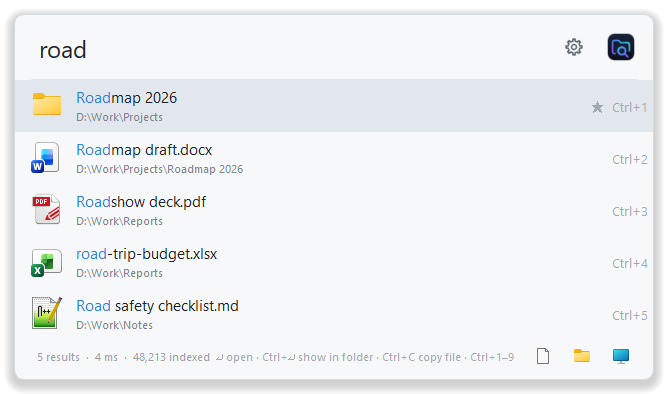
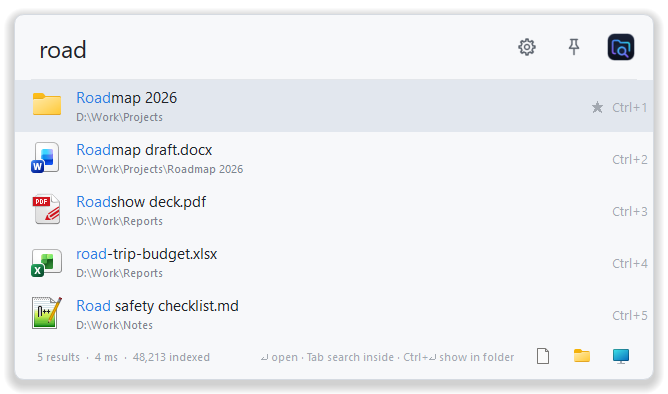
Pin the launcher bar open while opening results
- Pin button between settings and logo, also Ctrl+P
- Opening, revealing and commands leave a pinned bar visible; auto-hide pauses
- Shorter folder hint so Tab search inside fits the footer

Changed region(s): [[0.3293, 0.8832, 0.7784, 0.9137], [0.8383, 0.0914, 0.8683, 0.1523], [0.7784, 0.0914, 0.8084, 0.1523]]

diff --git a/winlauncher/ui/window.py b/winlauncher/ui/window.py
@@ -86,6 +86,7 @@ COMPACT_WIDTH = 640
 EXPANDED_WIDTH = 900
 EXPLORER_WIDTH = 396
 SETTINGS_ICON_SIZE = 20  # With its padding as tall as the logo button beside it.
+PIN_TOOLTIP = "Keep open after opening results (Ctrl+P)"
 EXPANDED_ROWS = 14
 SHADOW_MARGIN = 14
 SHADOW_OFFSET = 4
@@ -352,7 +353,7 @@ def _shortcut_hint(
     if explorer:
         return "↵ open · ↑↓ select in Explorer"
     if row.file_hit.item.kind == ItemKind.FOLDER and not row.missing:
-        return "↵ open · Tab search inside · Ctrl+↵ show in folder · Ctrl+1–9"
+        return "↵ open · Tab search inside · Ctrl+↵ show in folder"
     return "↵ open · Ctrl+↵ show in folder · Ctrl+C copy file · Ctrl+1–9"
 
 
@@ -529,6 +530,8 @@ class LauncherWindow(QWidget):
         self.auto_hide.timeout.connect(self._hide_if_unused)
         self.auto_hide_enabled = False
         self.auto_hide_ms = 0
+        # Pinned, results open without closing the bar; see `set_pinned`.
+        self.pinned = False
         self.menu_commands: tuple[MenuCommand, ...] = ()
         self._command_icons: dict[MenuCommand, QIcon] = {}  # Loaded when first shown.
         self.foreground_watcher = None
@@ -612,14 +615,24 @@ class LauncherWindow(QWidget):
         self.settings_button.setToolTip("Settings (Ctrl+,)")
         self.settings_button.setAccessibleName("Settings")
         self.settings_button.clicked.connect(self.settings_requested)
+        self.pin_button = QToolButton()
+        self.pin_button.setObjectName("pinButton")
+        self.pin_button.setCheckable(True)
+        self.pin_button.setIconSize(QSize(SETTINGS_ICON_SIZE, SETTINGS_ICON_SIZE))
+        self.pin_button.setToolTip(PIN_TOOLTIP)
+        self.pin_button.setAccessibleName("Keep open")
+        self.pin_button.toggled.connect(self.set_pinned)
         self._use_theme_icons()
         theme().changed.connect(self._theme_changed)
         row.addWidget(self.settings_button)
+        row.addWidget(self.pin_button)
         row.addWidget(self.menu_button)  # The logo stays the bar's right edge.
         return row
 
     def _use_theme_icons(self) -> None:
         self.settings_button.setIcon(line_icon("gear", colors().muted))
+        pin_color = colors().scope_text if self.pinned else colors().muted
+        self.pin_button.setIcon(line_icon("pin", pin_color))
 
     def _theme_changed(self) -> None:
         """Results paint with the active colors; icons keep the colors they were made with."""
@@ -717,6 +730,7 @@ class LauncherWindow(QWidget):
             ("Ctrl+Enter", self.reveal_selected),  # Keypad Enter.
             ("Ctrl+Shift+C", self.copy_target),
             ("Ctrl+D", self.favorite_selected),
+            ("Ctrl+P", self.pin_button.toggle),
             ("Ctrl+,", self.settings_requested),
             ("Shift+F10", self.keyboard_context_menu),
         ):
@@ -1210,7 +1224,7 @@ class LauncherWindow(QWidget):
         if self.explorer_mode:
             # On the next event loop pass, once the new foreground window is known.
             self.auto_hide.start(0)
-        elif self.auto_hide_enabled:
+        elif self.auto_hide_enabled and not self.pinned:
             self.auto_hide.start(self.auto_hide_ms)
 
     def _hide_if_unused(self) -> None:
@@ -1274,6 +1288,7 @@ class LauncherWindow(QWidget):
         self.menu_button.setIconSize(QSize(16, 16) if enabled else QSize(28, 28))
         # The Explorer bar stays narrow; its menu still offers the settings.
         self.settings_button.setVisible(not enabled)
+        self.pin_button.setVisible(not enabled)
         self._show_scope(scope)
 
     def _place_on_cursor_screen(self) -> None:
@@ -1379,6 +1394,25 @@ class LauncherWindow(QWidget):
             return
         if (hit := row.file_hit) is not None:
             self.explorer_selection.emit(hit)
+
+    def set_pinned(self, pinned: bool) -> None:
+        """Pinned, the launcher bar stays open after opening results and when focus
+        leaves it, so several results can be opened in a row.
+
+        Escape, the global shortcut and closing it from the tray still hide it. The
+        Explorer bar is never pinned: it belongs to the Explorer window.
+        """
+        self.pinned = pinned
+        self.pin_button.setChecked(pinned)
+        self._use_theme_icons()
+        if pinned:
+            self.auto_hide.stop()
+
+    def close_after_action(self) -> None:
+        """A result was opened or acted on: hide, unless the launcher bar is pinned."""
+        if self.pinned and not self.explorer_mode:
+            return
+        self.hide()
 
     def dismiss(self) -> None:
         """Escape: close; a file dialog gets the typed text back in its file-name box.

diff --git a/winlauncher/ui/controller.py b/winlauncher/ui/controller.py
@@ -490,12 +490,12 @@ class LauncherController(QObject):
 
     def open_item(self, hit: LauncherHit, history_key: str) -> None:
         if isinstance(hit, PluginHit):
-            self.window.hide()
+            self.window.close_after_action()
             config = self.plugins.config(hit.plugin_id, self.settings.plugins)
             self._run_action(partial(self.plugins.open, hit, config))
             return
         if isinstance(hit, WebsiteTarget):
-            self.window.hide()
+            self.window.close_after_action()
             if not QDesktopServices.openUrl(QUrl(hit.url)):
                 self._action_failed("The website could not be opened in your default browser.")
             return
@@ -505,7 +505,7 @@ class LauncherController(QObject):
             self.indexing.request_folder(hit.item.path.parent)
             return
         dialog, explorer = self._dialog_target(), self._explorer_target()
-        self.window.hide()
+        self.window.close_after_action()
         if dialog is not None:
             work = partial(self.actions.choose_in_dialog, hit.item.path, history_key, dialog)
         else:
@@ -562,14 +562,14 @@ class LauncherController(QObject):
             self._action_failed(str(exc))
             return
         if ran:
-            self.window.hide()
+            self.window.close_after_action()
 
     def run_menu_command(self, hit: SearchHit, command: MenuCommand) -> None:
-        self.window.hide()
+        self.window.close_after_action()
         self._run_action(partial(self.actions.run_command, command, hit.item.path))
 
     def reveal_item(self, hit: SearchHit) -> None:
-        self.window.hide()
+        self.window.close_after_action()
         self._run_action(partial(self.actions.reveal, hit.item.path))
 
     def favorite_item(self, hit: SearchHit) -> None:

diff --git a/tests/test_ui_flow.py b/tests/test_ui_flow.py
@@ -992,6 +992,34 @@ class UiFlowTest(unittest.TestCase):
         self.assertIsNone(self.controller.search.running)
         self.assertFalse(self.controller.search.debounce.isActive())
 
+    def test_pinned_launcher_stays_open_after_opening_results(self):
+        hit = self.show_file_result()
+        self.window.activateWindow()
+        self.window.query.setFocus()
+        self.app.processEvents()
+        QTest.keyClick(self.window.query, Qt.Key.Key_P, Qt.KeyboardModifier.ControlModifier)
+        self.assertTrue(self.window.pinned)
+        self.assertTrue(self.window.pin_button.isChecked())
+        self.window.open_selected()
+        self.tasks.finish(TaskCategory.ACTION)
+        self.window.reveal_selected()
+        self.tasks.finish(TaskCategory.ACTION)
+        self.launch.assert_called_once()
+        self.reveal.assert_called_once_with(hit.item.path)
+        self.assertTrue(self.window.isVisible())
+        # Focus moving to the opened program does not start the auto-hide timer either.
+        self.window.set_auto_hide(True, 1)
+        self.window._focus_left()
+        self.assertFalse(self.window.auto_hide.isActive())
+        self.window.dismiss()  # Escape still closes.
+        self.assertFalse(self.window.isVisible())
+        self.window.show()
+        self.window.pin_button.click()
+        self.assertFalse(self.window.pinned)
+        self.window.open_selected()
+        self.tasks.finish(TaskCategory.ACTION)
+        self.assertFalse(self.window.isVisible())
+
     def test_home_shortcut_opens_an_unindexed_folder(self):
         folder = self.root.parent / ".toolbox"
         folder.mkdir()

diff --git a/winlauncher/ui/theme.py b/winlauncher/ui/theme.py
@@ -252,6 +252,10 @@ QToolButton#menuButton::menu-indicator { image: none; width: 0; }
 QToolButton#settingsButton { background: transparent; border: 1px solid transparent; border-radius: 8px; padding: 7px; }
 QToolButton#settingsButton:hover { background: $tool_hover; }
 QToolButton#settingsButton:focus { border-color: $accent; }
+QToolButton#pinButton { background: transparent; border: 1px solid transparent; border-radius: 8px; padding: 7px; }
+QToolButton#pinButton:hover { background: $tool_hover; }
+QToolButton#pinButton:checked { background: $scope; }
+QToolButton#pinButton:focus { border-color: $accent; }
 QToolButton#foldButton { background: transparent; border: 1px solid transparent; border-radius: 6px; padding: 3px; }
 QToolButton#foldButton:hover { background: $tool_hover; }
 QToolButton#foldButton:focus { border-color: $accent; }

diff --git a/docs/specification.md b/docs/specification.md
@@ -458,6 +458,13 @@ shortcut that opens that row. Messages (no matches, invalid query, failures),
 the result count and persistent problems appear below the results only when
 present. The bar can be dragged by its empty areas.
 
+A pin button between the settings button and the application icon (or Ctrl+P)
+keeps the launcher bar open: opening a result by Enter, click or Ctrl+1…9,
+Show in containing folder, the shell menu and custom commands then leave it
+visible, and focus leaving it does not start the auto-hide timer. Escape, the
+global shortcut and the tray still hide it. The pin lasts until it is turned off
+or WinLauncher exits; the Explorer bar has no pin.
+
 Tab on a selected folder row (including `%NAME%` suggestions and folders found by
 direct navigation) makes that folder the scope chip and clears the query; the
 footer hint says so for folder rows. A search within the chip works like the

diff --git a/README.md b/README.md
@@ -212,6 +212,7 @@ built-in keys and Ctrl+Alt is AltGr on many keyboards.
 | <kbd>Alt</kbd>+<kbd>Enter</kbd> / <kbd>Alt</kbd>+click / <kbd>Ctrl</kbd>+<kbd>Alt</kbd>+<kbd>1</kbd>…<kbd>9</kbd> | Run your own command whose shortcut is Alt (also Shift or Alt+Shift) |
 | <kbd>Ctrl</kbd>+<kbd>Shift</kbd>+<kbd>C</kbd> | Copy the path |
 | <kbd>Ctrl</kbd>+<kbd>D</kbd> | Toggle favorite |
+| <kbd>Ctrl</kbd>+<kbd>P</kbd> / pin button | Keep the bar open after opening results; <kbd>Esc</kbd> still closes it |
 | <kbd>Ctrl</kbd>+<kbd>L</kbd> | Select the query |
 | <kbd>Ctrl</kbd>+<kbd>,</kbd> | Settings |
 | <kbd>Shift</kbd>+<kbd>F10</kbd> / right-click | Open, reveal, your own commands, copy, favorite, exclude |
